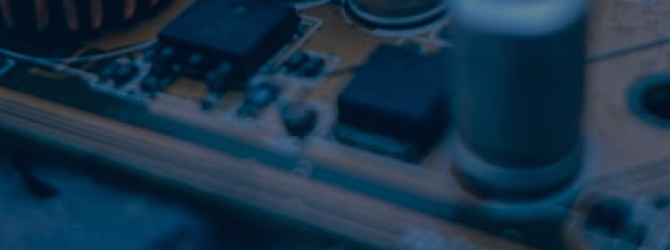
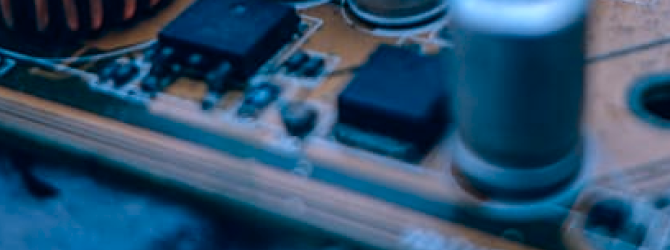
update variables, fix images, add preload fonts

diff --git a/source/sass/variables.scss b/source/sass/variables.scss
@@ -5,54 +5,28 @@
 
 $color-default-black:               #000000;
 $color-default-white:               #ffffff;
-$color-transparent:                 rgba(255, 255, 255, 0);
 
 // Project palette
-// для нейминга цветов используем https://www.htmlcsscolor.com/hex/334482
 
-$color-neon-blue:                   #2c39f2;
-$color-torch-red:                   #ff1553;
+$color-deep-sky-blue:               #00b2ff;
+$color-black-pearl:                 #041827;
+$color-alice-blue:                  #f2f5f6;
+
+$color-border-light-gray:           #ebebeb;
+$color-border-white:                rgba(248, 253, 255, 0.7);
+
+$color-white-transparent:           rgba(255, 255, 255, 0.7);
+$color-black-transparent:           rgba(4, 24, 39, 0.5);
+$color-modal-black-transparent:     rgba(3, 16, 27, 0.7);
+
 
 // Gradient
 
-$black-to-right:                    linear-gradient(90deg, rgba(0, 0, 0, 0.75) 0%, rgba(0, 0, 0, 0) 75%);
-
-// Typography
-// ---------------------------------
-
-// переменная используемая в html для подключения скейлинга
-$fz-default:                        16px;
-
-// у некоторых шрифтов в ios возникают проблемы с символом рубля
-// https://www.artlebedev.ru/kovodstvo/sections/159/#13
-$ff-rouble:                         "Rouble", "Arial", sans-serif;
-
-$ff-placeholder:                    "Placeholder", "Arial", sans-serif;
-
-// Animation
-// ---------------------------------
-
-$tf-default:                        ease;
-$trans-default:                     0.3s $tf-default;
-
-// если требуется изинг отличный от $tf-default, то переменную называем не цифрой
-$trans-modal:                       0.6s cubic-bezier(0.55, 0, 0.1, 1);
-
-$trans-600:                         0.6s $tf-default;
+$black-to-bottom:                   linear-gradient(180deg, #041827 84.9%, rgba(4, 24, 39, 0) 100%);
 
 // Viewports
 // ---------------------------------
 
 $vp-320:                            320px;
-$vp-375:                            375px;
-$vp-768:                            768px;
-$vp-1024:                           1024px;
-$vp-1280:                           1280px;
-$vp-1440:                           1440px;
+$vp-770:                            770px;
 $vp-1920:                           1920px;
-
-// Retina
-// ---------------------------------
-
-$retina-dpi:                        144dpi;
-$retina-dppx:                       1.5dppx;

diff --git a/source/index.html b/source/index.html
@@ -2,10 +2,13 @@
 <html lang="ru">
   <head>
     <meta charset="UTF-8" />
+    <link rel="preaload" href="fonts/RobotoCondensed-Regular.woff2" type="font/woff2" as="font" crossorigin="anonymous">
+    <link rel="preaload" href="fonts/RobotoCondensed-Bold.woff2" type="font/woff2" as="font" crossorigin="anonymous">
+    <link rel="preaload" href="fonts/PTMono-Regular.woff2" type="font/woff2" as="font" crossorigin="anonymous">
     <meta http-equiv="X-UA-Compatible" content="IE=edge" />
     <meta name="viewport" content="width=device-width, initial-scale=1.0" />
     <meta name="description" content="Описание проекта">
-    <title>ProjectName</title>
+    <title>Smart Device</title>
     <link rel="stylesheet" href="css/style.min.css">
   </head>
   <body>
